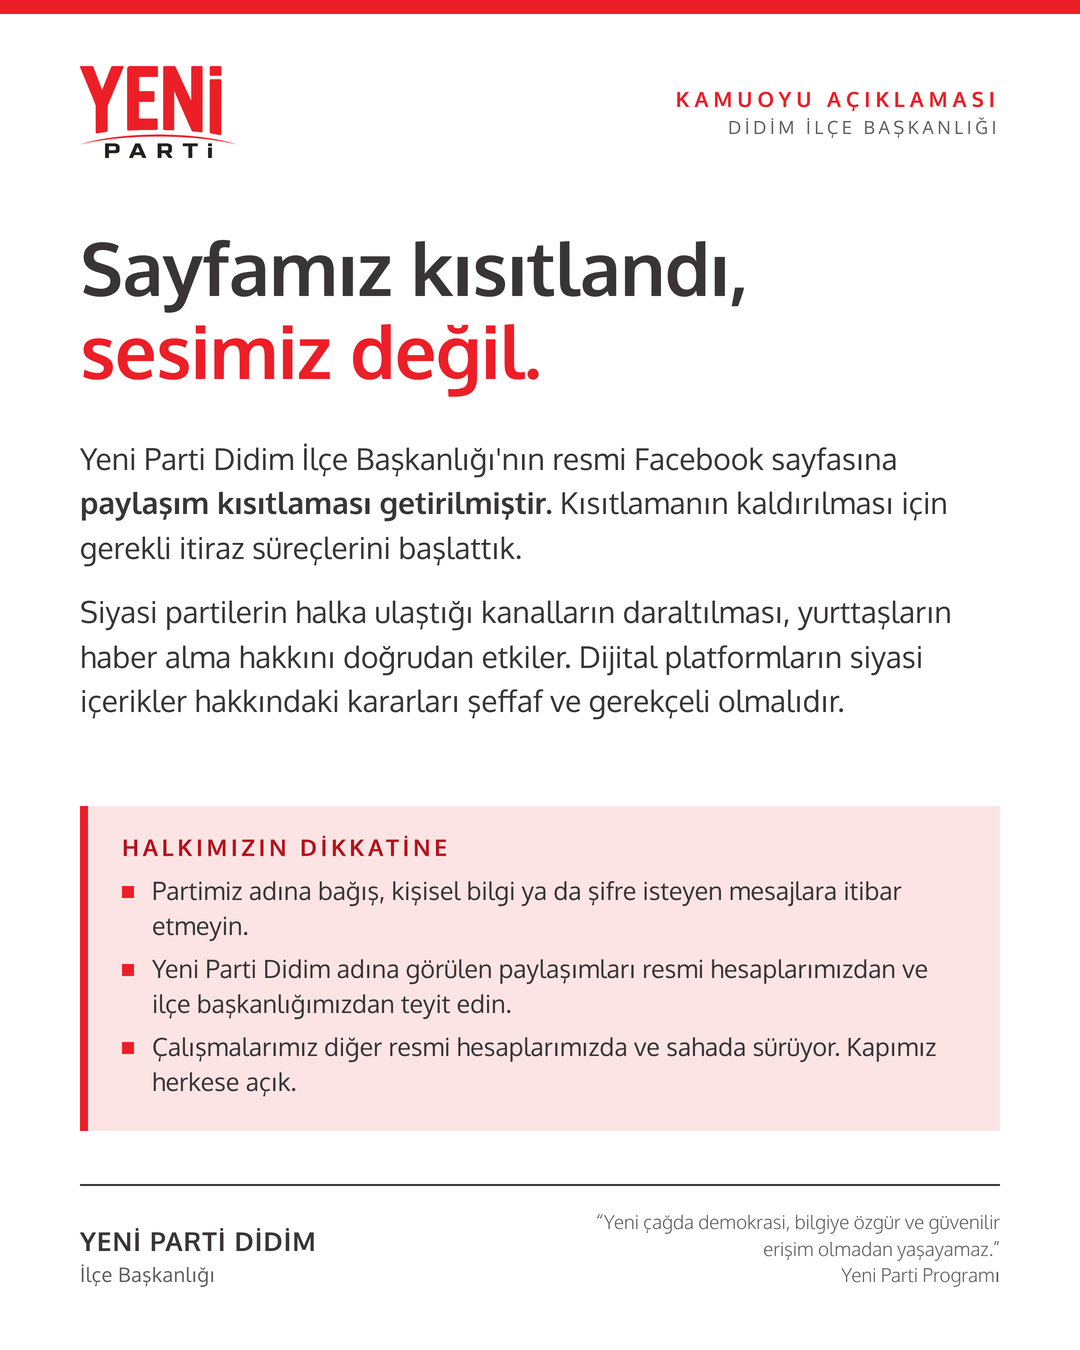
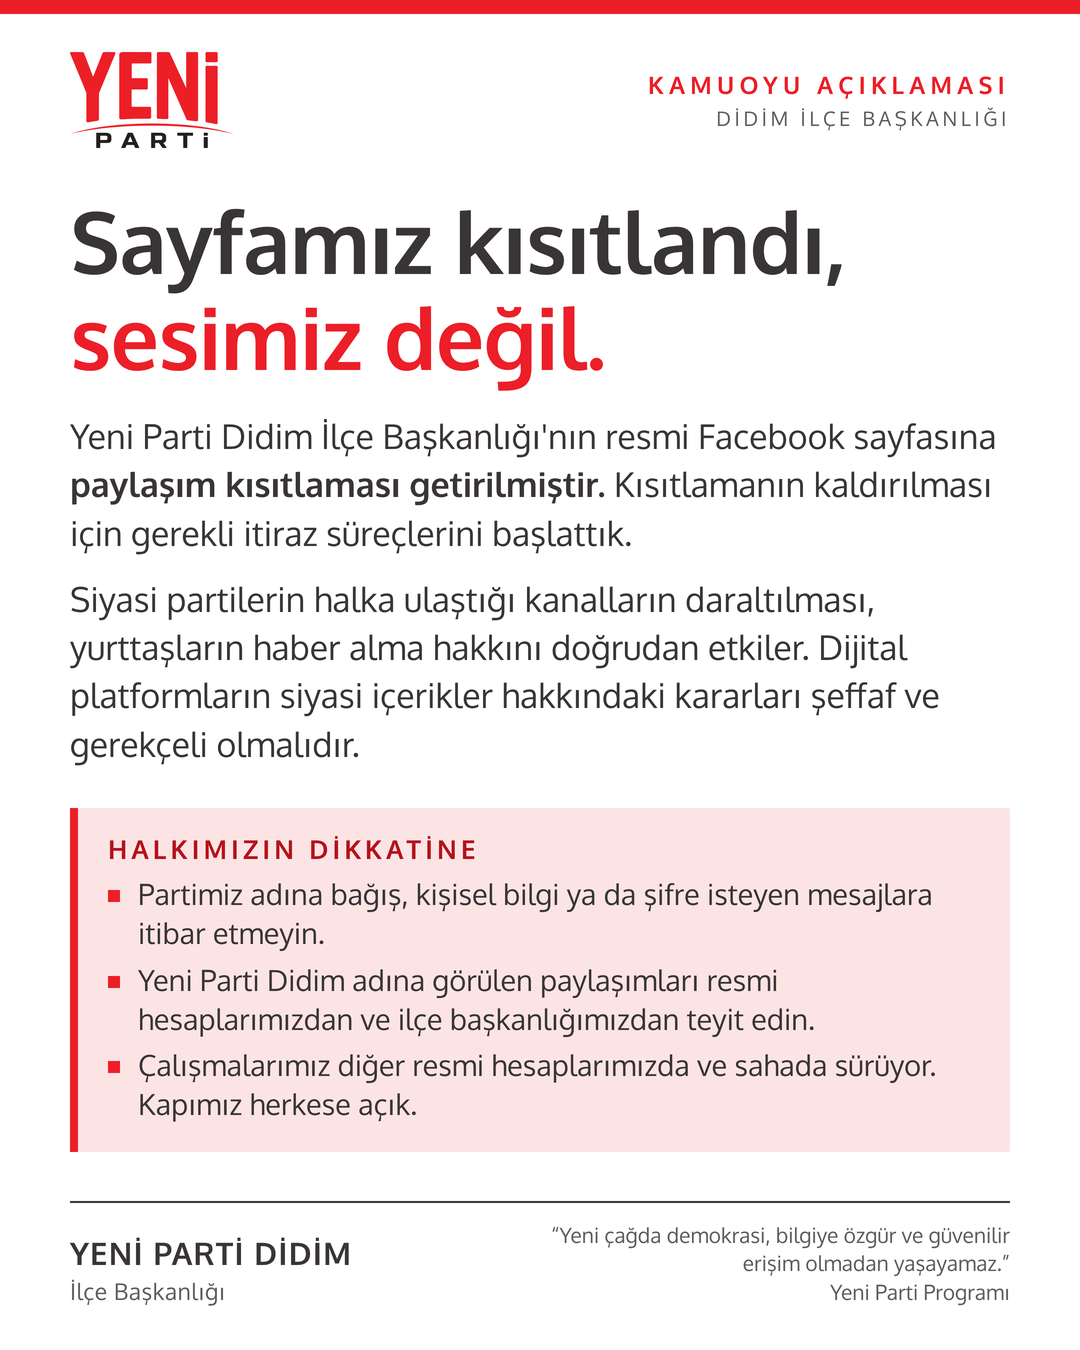
Kamuoyu açıklaması: yazılar büyütüldü
Claude-Session: https://claude.ai/code/session_01SatttGbgBLoCnk9KGLypWv

diff --git a/tasarim/kisisel/facebook-kisitlama/aciklama.html b/tasarim/kisisel/facebook-kisitlama/aciklama.html
@@ -8,24 +8,24 @@
 :root{--kir:#EC1E27;--kirk:#B5121B;--gri:#393536;--g2:#615D5E;--k3:#FCE4E5}
 html,body{margin:0;width:1080px;height:1350px;overflow:hidden;background:#fff;color:var(--gri);font-family:Ox,sans-serif}
 .serit{position:absolute;left:0;right:0;top:0;height:14px;background:var(--kir)}
-.ust{position:absolute;left:80px;right:80px;top:66px;display:flex;justify-content:space-between;align-items:center}
-.ust img{height:92px}
-.etiket{font-weight:700;font-size:21px;letter-spacing:.24em;color:var(--kir);text-align:right;line-height:1.5}
-.etiket span{display:block;color:var(--g2);font-weight:400;letter-spacing:.2em;font-size:18px}
-h1{position:absolute;left:80px;right:80px;top:226px;margin:0;font-weight:700;font-size:74px;line-height:1.12;letter-spacing:-.01em}
+.ust{position:absolute;left:70px;right:70px;top:52px;display:flex;justify-content:space-between;align-items:center}
+.ust img{height:96px}
+.etiket{font-weight:700;font-size:24px;letter-spacing:.22em;color:var(--kir);text-align:right;line-height:1.5}
+.etiket span{display:block;color:var(--g2);font-weight:400;letter-spacing:.18em;font-size:20px}
+h1{position:absolute;left:70px;right:70px;top:192px;margin:0;font-weight:700;font-size:86px;line-height:1.12;letter-spacing:-.01em}
 h1 em{font-style:normal;color:var(--kir)}
-.metin{position:absolute;left:80px;right:80px;top:436px;font-size:30px;line-height:1.48;font-weight:400}
-.metin p{margin:0 0 20px}
+.metin{position:absolute;left:70px;right:70px;top:412px;font-size:34px;line-height:1.42;font-weight:400}
+.metin p{margin:0 0 18px}
 .metin b{font-weight:700}
-.dikkat{position:absolute;left:80px;right:80px;top:806px;background:var(--k3);border-left:8px solid var(--kir);padding:26px 34px 24px}
-.dikkat h2{margin:0 0 12px;font-size:23px;letter-spacing:.16em;color:var(--kirk);font-weight:700}
-.dikkat ul{margin:0;padding:0;list-style:none;font-size:25px;line-height:1.4}
+.dikkat{position:absolute;left:70px;right:70px;top:808px;background:var(--k3);border-left:8px solid var(--kir);padding:24px 30px 20px}
+.dikkat h2{margin:0 0 10px;font-size:26px;letter-spacing:.16em;color:var(--kirk);font-weight:700}
+.dikkat ul{margin:0;padding:0;list-style:none;font-size:29px;line-height:1.34}
 .dikkat li{position:relative;padding-left:30px;margin-bottom:8px}
-.dikkat li::before{content:"";position:absolute;left:0;top:13px;width:12px;height:12px;background:var(--kir)}
-.alt{position:absolute;left:80px;right:80px;bottom:62px;display:flex;justify-content:space-between;align-items:flex-end;border-top:2px solid var(--gri);padding-top:22px}
-.alt .imza{font-weight:700;font-size:26px;letter-spacing:.04em}
-.alt .imza span{display:block;font-weight:400;font-size:20px;color:var(--g2);letter-spacing:.02em;margin-top:4px}
-.alt .soz{font-weight:300;font-size:19px;line-height:1.4;color:var(--g2);text-align:right;max-width:430px}
+.dikkat li::before{content:"";position:absolute;left:0;top:15px;width:12px;height:12px;background:var(--kir)}
+.alt{position:absolute;left:70px;right:70px;bottom:44px;display:flex;justify-content:space-between;align-items:flex-end;border-top:2px solid var(--gri);padding-top:18px}
+.alt .imza{font-weight:700;font-size:31px;letter-spacing:.04em}
+.alt .imza span{display:block;font-weight:400;font-size:23px;color:var(--g2);letter-spacing:.02em;margin-top:4px}
+.alt .soz{font-weight:400;font-size:21px;line-height:1.35;color:var(--g2);text-align:right;max-width:500px}
 </style><body>
 <div class="serit"></div>
 <div class="ust"><img src="logo.png"><div class="etiket">KAMUOYU AÇIKLAMASI<span>DİDİM İLÇE BAŞKANLIĞI</span></div></div>
